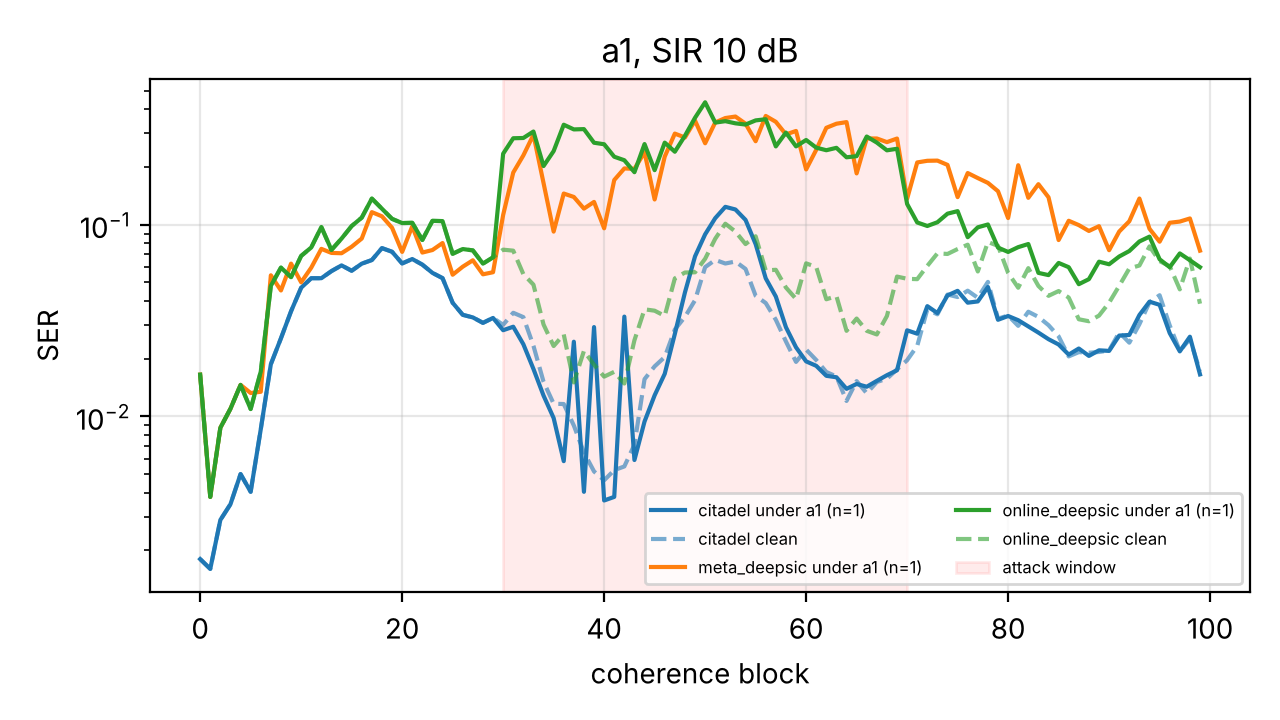
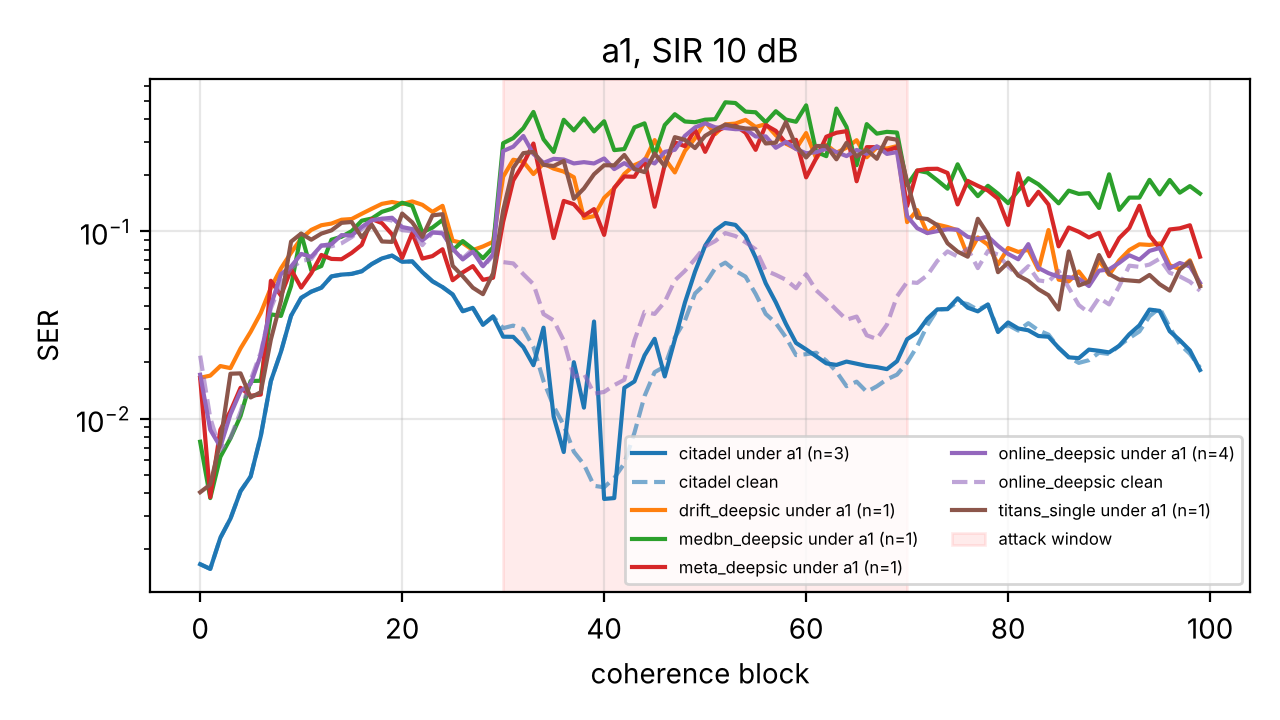
Results: 3-seed replication of the key cells; pretrain flag in paper_numbers grouping
Claude-Session: https://claude.ai/code/session_014LiDyft9H5r68QLPkpAAJF

Changed region(s): [[0.1562, 0.1222, 0.9688, 0.7944], [0.0625, 0.55, 0.125, 0.6111], [0.0625, 0.3056, 0.125, 0.3361]]

diff --git a/scripts/paper_numbers.py b/scripts/paper_numbers.py
@@ -33,7 +33,8 @@ def load(root):
 
 def key(r):
     c = r["config"]
-    return (c["receiver"]["type"], c["channel"]["model"], c["channel"]["fading"], c["channel"]["linear"],
+    return (c["receiver"]["type"] + ("+pre" if c["receiver"]["pretrain"] else ""), c["channel"]["model"],
+            c["channel"]["fading"], c["channel"]["linear"],
             c["channel"]["snr_db"], c["attack"]["type"], c["attack"]["knowledge"], c["attack"]["sir_db"],
             tuple(c["citadel"]["gates"]), tuple(c["citadel"]["periods"]))
 

diff --git a/figures/full2/table_summary.md b/figures/full2/table_summary.md
@@ -1,11 +1,14 @@
 | receiver | channel | fading | lin | SNR | attack | know | SIR | gates | periods | SER pre | SER attack | SER post | recovery | gate rej/false |
 |---|---|---|---|---|---|---|---|---|---|---|---|---|---|---|
 | citadel | synthetic | cosine | True | 10.0 | a1 | whitebox | 0.0 | ('g1', 'g2', 'g3') | (1, 8, 32) | 0.0393 ± 0.0000 (n=1) | 0.0266 ± 0.0000 (n=1) | 0.0300 ± 0.0000 (n=1) | 0.0000 ± 0.0000 (n=1) | 0.9750 ± 0.0000 (n=1) / 0.0167 ± 0.0000 (n=1) |
-| citadel | synthetic | cosine | True | 10.0 | a1 | whitebox | 10.0 | ('g1', 'g2', 'g3') | (1, 8, 32) | 0.0393 ± 0.0000 (n=1) | 0.0337 ± 0.0000 (n=1) | 0.0303 ± 0.0000 (n=1) | 0.0000 ± 0.0000 (n=1) | 0.9250 ± 0.0000 (n=1) / 0.0000 ± 0.0000 (n=1) |
+| citadel | synthetic | cosine | True | 10.0 | a1 | whitebox | 10.0 | ('g1', 'g2', 'g3') | (1, 8, 32) | 0.0395 ± 0.0010 (n=3) | 0.0342 ± 0.0006 (n=3) | 0.0299 ± 0.0005 (n=3) | 0.0000 ± 0.0000 (n=3) | 0.9000 ± 0.0250 (n=3) / 0.0000 ± 0.0000 (n=3) |
 | citadel | synthetic | cosine | True | 10.0 | a1 | whitebox | 5.0 | ('g1', 'g2', 'g3') | (1, 8, 32) | 0.0393 ± 0.0000 (n=1) | 0.0333 ± 0.0000 (n=1) | 0.0305 ± 0.0000 (n=1) | 0.0000 ± 0.0000 (n=1) | 0.9500 ± 0.0000 (n=1) / 0.0000 ± 0.0000 (n=1) |
-| citadel | synthetic | cosine | True | 10.0 | none | whitebox | 0.0 | ('g1', 'g2', 'g3') | (1, 8, 32) | 0.0309 ± 0.0000 (n=1) | n/a | n/a | n/a | n/a / n/a |
+| citadel | synthetic | cosine | True | 10.0 | none | whitebox | 0.0 | ('g1', 'g2', 'g3') | (1, 8, 32) | 0.0305 ± 0.0006 (n=3) | n/a | n/a | n/a | n/a / n/a |
+| drift_deepsic | synthetic | cosine | True | 10.0 | a1 | whitebox | 10.0 | ('g1', 'g2', 'g3') | (1, 8, 32) | 0.0883 ± 0.0000 (n=1) | 0.2652 ± 0.0000 (n=1) | 0.0795 ± 0.0000 (n=1) | 4.0000 ± 0.0000 (n=1) | n/a / n/a |
+| medbn_deepsic | synthetic | cosine | True | 10.0 | a1 | whitebox | 10.0 | ('g1', 'g2', 'g3') | (1, 8, 32) | 0.0730 ± 0.0000 (n=1) | 0.3653 ± 0.0000 (n=1) | 0.1703 ± 0.0000 (n=1) | 30.0000 ± 0.0000 (n=1) | n/a / n/a |
 | meta_deepsic | synthetic | cosine | True | 10.0 | a1 | whitebox | 10.0 | ('g1', 'g2', 'g3') | (1, 8, 32) | 0.0581 ± 0.0000 (n=1) | 0.2456 ± 0.0000 (n=1) | 0.1335 ± 0.0000 (n=1) | 30.0000 ± 0.0000 (n=1) | n/a / n/a |
 | online_deepsic | synthetic | cosine | True | 10.0 | a1 | whitebox | 0.0 | ('g1', 'g2', 'g3') | (1, 8, 32) | 0.0688 ± 0.0000 (n=1) | 0.7953 ± 0.0000 (n=1) | 0.0931 ± 0.0000 (n=1) | 12.0000 ± 0.0000 (n=1) | n/a / n/a |
-| online_deepsic | synthetic | cosine | True | 10.0 | a1 | whitebox | 10.0 | ('g1', 'g2', 'g3') | (1, 8, 32) | 0.0688 ± 0.0000 (n=1) | 0.2786 ± 0.0000 (n=1) | 0.0782 ± 0.0000 (n=1) | 9.0000 ± 0.0000 (n=1) | n/a / n/a |
+| online_deepsic | synthetic | cosine | True | 10.0 | a1 | whitebox | 10.0 | ('g1', 'g2', 'g3') | (1, 8, 32) | 0.0696 ± 0.0033 (n=4) | 0.2779 ± 0.0095 (n=4) | 0.0772 ± 0.0041 (n=4) | 9.7500 ± 1.5000 (n=4) | n/a / n/a |
 | online_deepsic | synthetic | cosine | True | 10.0 | a1 | whitebox | 5.0 | ('g1', 'g2', 'g3') | (1, 8, 32) | 0.0688 ± 0.0000 (n=1) | 0.4828 ± 0.0000 (n=1) | 0.0812 ± 0.0000 (n=1) | 11.0000 ± 0.0000 (n=1) | n/a / n/a |
-| online_deepsic | synthetic | cosine | True | 10.0 | none | whitebox | 0.0 | ('g1', 'g2', 'g3') | (1, 8, 32) | 0.0559 ± 0.0000 (n=1) | n/a | n/a | n/a | n/a / n/a |
+| online_deepsic | synthetic | cosine | True | 10.0 | none | whitebox | 0.0 | ('g1', 'g2', 'g3') | (1, 8, 32) | 0.0575 ± 0.0014 (n=3) | n/a | n/a | n/a | n/a / n/a |
+| titans_single | synthetic | cosine | True | 10.0 | a1 | whitebox | 10.0 | ('g1', 'g2', 'g3') | (1, 8, 32) | 0.0692 ± 0.0000 (n=1) | 0.2685 ± 0.0000 (n=1) | 0.0725 ± 0.0000 (n=1) | 8.0000 ± 0.0000 (n=1) | 0.0000 ± 0.0000 (n=1) / 0.0000 ± 0.0000 (n=1) |

diff --git a/docs/RESULTS.md b/docs/RESULTS.md
@@ -34,6 +34,16 @@ Reading:
 Figure: `docs/figures/fig_ser_vs_block_a1_sir10.png`, `..._sir5.png`,
 `..._sir0.png` (SER vs block, clean trajectories dashed, attack window shaded).
 
+## 3-seed replication of the key cells (seeds 0, 1, 2; mean ± std over seeds)
+
+| receiver | clean SER (no attack, 100 blocks) | pre-attack SER | SER in attack window (SIR 10 dB) | SER after | recovery |
+|---|---|---|---|---|---|
+| online DeepSIC | 0.0575 ± 0.0014 | 0.0696 ± 0.0033 | 0.2779 ± 0.0095 | 0.0772 ± 0.0041 | 9, 9, 12 |
+| **Citadel-Rx** | **0.0305 ± 0.0006** | 0.0395 ± 0.0010 | **0.0342 ± 0.0006** | 0.0299 ± 0.0005 | 0, 0, 0 |
+
+Seed-to-seed spread is an order of magnitude below the effect; the headline
+numbers are not a seed artefact.
+
 ## Baselines and ablations at SIR 10 dB (1 seed)
 
 | receiver | clean SER (blocks 0–29) | SER in attack window | SER after | recovery (blocks) |
